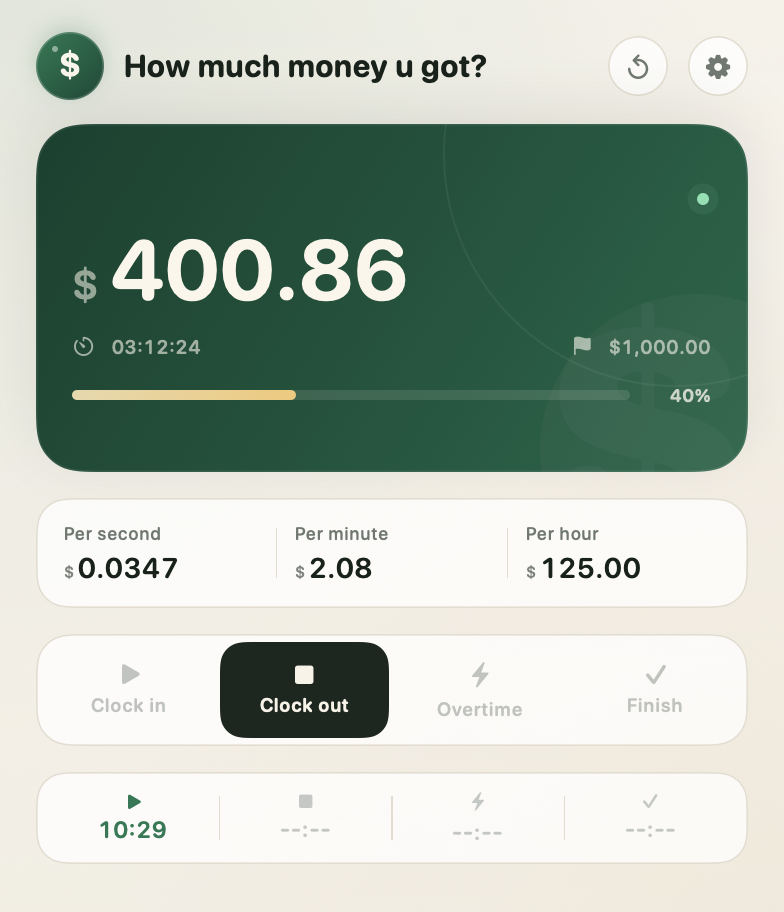
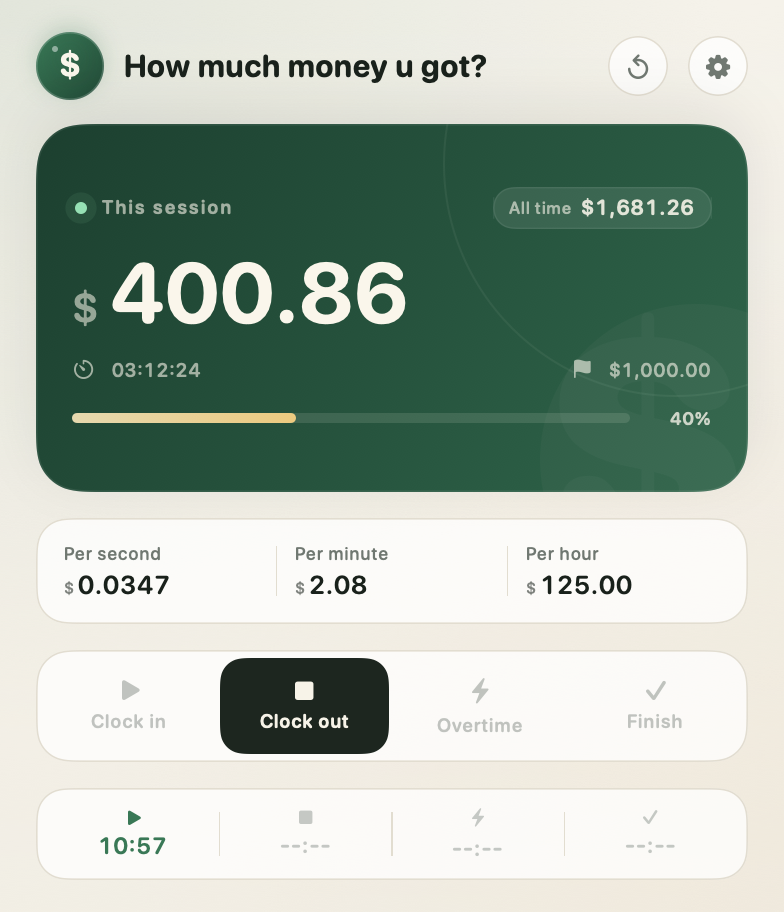
Preserve completed earnings in all-time total

diff --git a/Sources/HowMuchApp/DashboardView.swift b/Sources/HowMuchApp/DashboardView.swift
@@ -5,14 +5,7 @@ struct DashboardView: View {
     @EnvironmentObject private var model: AppModel
     let openSettings: () -> Void
 
-    @State private var pendingConfirmation: Confirmation?
-
-    private enum Confirmation: String, Identifiable {
-        case restart
-        case reset
-
-        var id: String { rawValue }
-    }
+    @State private var showResetAlert = false
 
     private var snapshot: EarningsSnapshot { model.snapshot }
 
@@ -31,27 +24,13 @@ struct DashboardView: View {
             Spacer(minLength: 0)
         }
         .padding(.bottom, 16)
-        .alert(item: $pendingConfirmation) { confirmation in
-            switch confirmation {
-            case .restart:
-                return Alert(
-                    title: Text(model.t(.restartConfirmTitle)),
-                    message: Text(model.t(.restartConfirmMessage, model.money(snapshot.total))),
-                    primaryButton: .destructive(Text(model.t(.restartAction))) {
-                        model.clockIn()
-                    },
-                    secondaryButton: .cancel(Text(model.t(.cancel)))
-                )
-            case .reset:
-                return Alert(
-                    title: Text(model.t(.resetConfirmTitle)),
-                    message: Text(model.t(.resetConfirmMessage, model.money(snapshot.total))),
-                    primaryButton: .destructive(Text(model.t(.reset))) {
-                        model.resetSession()
-                    },
-                    secondaryButton: .cancel(Text(model.t(.cancel)))
-                )
+        .alert(model.t(.resetConfirmTitle), isPresented: $showResetAlert) {
+            Button(model.t(.cancel), role: .cancel) {}
+            Button(model.t(.reset), role: .destructive) {
+                model.resetSession()
             }
+        } message: {
+            Text(model.t(.resetConfirmMessage, model.money(snapshot.total)))
         }
     }
 
@@ -74,7 +53,7 @@ struct DashboardView: View {
                 isEnabled: model.session.hasRecordedTime,
                 help: model.t(.resetThisSession)
             ) {
-                pendingConfirmation = .reset
+                showResetAlert = true
             }
 
             HeaderIconButton(
@@ -118,15 +97,45 @@ struct DashboardView: View {
                 .offset(x: 128, y: 64)
 
             VStack(alignment: .leading, spacing: 0) {
-                HStack {
-                    Spacer()
+                HStack(spacing: 6) {
                     StatusDot(
                         phase: snapshot.phase,
                         help: model.phaseTitle(snapshot.phase)
                     )
+
+                    Text(model.t(.sessionCurrentLabel))
+                        .font(.system(size: 9.5, weight: .semibold, design: .rounded))
+                        .tracking(0.6)
+                        .foregroundStyle(Palette.heroMuted)
+
+                    Spacer(minLength: 4)
+
+                    HStack(spacing: 4) {
+                        Text(model.t(.totalLabel))
+                            .font(.system(size: 8.5, weight: .medium, design: .rounded))
+                            .foregroundStyle(Palette.heroMuted)
+                        Text(model.money(model.totalEarned))
+                            .font(.system(size: 10.5, weight: .semibold, design: .rounded).monospacedDigit())
+                            .foregroundStyle(Palette.heroText.opacity(0.88))
+                            .lineLimit(1)
+                            .minimumScaleFactor(0.72)
+                    }
+                    .padding(.horizontal, 8)
+                    .padding(.vertical, 4)
+                    .background(
+                        Capsule()
+                            .fill(Color.white.opacity(0.09))
+                            .overlay(
+                                Capsule()
+                                    .strokeBorder(Color.white.opacity(0.07), lineWidth: 0.7)
+                            )
+                    )
+                    .accessibilityElement(children: .ignore)
+                    .accessibilityLabel(
+                        "\(model.t(.totalLabel)) \(model.money(model.totalEarned))"
+                    )
                 }
-                .frame(height: 9)
-                .padding(.bottom, 5)
+                .padding(.bottom, 6)
 
                 HStack(alignment: .firstTextBaseline, spacing: 5) {
                     Text(model.currency.symbol)
@@ -183,7 +192,7 @@ struct DashboardView: View {
             }
             .padding(18)
         }
-        .frame(height: 174)
+        .frame(height: 184)
         .clipShape(RoundedRectangle(cornerRadius: 23, style: .continuous))
         .overlay(
             RoundedRectangle(cornerRadius: 23, style: .continuous)
@@ -256,11 +265,7 @@ struct DashboardView: View {
                 style: .green,
                 isEnabled: model.canClockIn
             ) {
-                if model.clockInStartsNewSession && snapshot.total > 0.001 {
-                    pendingConfirmation = .restart
-                } else {
-                    model.clockIn()
-                }
+                model.clockIn()
             }
 
             ActionTile(

diff --git a/Sources/HowMuchApp/Localization.swift b/Sources/HowMuchApp/Localization.swift
@@ -13,6 +13,8 @@ enum LKey: Hashable {
 
     // Dashboard
     case earnedThisSession
+    case sessionCurrentLabel
+    case totalLabel
     case dailyTarget
     case perSecond
     case perMinute
@@ -35,9 +37,6 @@ enum LKey: Hashable {
     case phaseTitleOvertime
     case phaseTitleFinished
     case resetThisSession
-    case restartConfirmTitle
-    case restartConfirmMessage
-    case restartAction
     case resetConfirmTitle
     case resetConfirmMessage
 
@@ -98,6 +97,8 @@ enum L10n {
         .currency: "货币单位",
 
         .earnedThisSession: "本次已赚",
+        .sessionCurrentLabel: "本次",
+        .totalLabel: "总计",
         .dailyTarget: "日薪目标",
         .perSecond: "每秒",
         .perMinute: "每分",
@@ -120,11 +121,8 @@ enum L10n {
         .phaseTitleOvertime: "加班计薪中",
         .phaseTitleFinished: "本次已完成",
         .resetThisSession: "重置本次",
-        .restartConfirmTitle: "开始新的一次计薪？",
-        .restartConfirmMessage: "本次已累计 %@，重新打卡会将这笔记录清零。",
-        .restartAction: "重新开始",
         .resetConfirmTitle: "重置本次计薪？",
-        .resetConfirmMessage: "当前累计的 %@ 将清零，且无法恢复。",
+        .resetConfirmMessage: "本次的 %@ 将清零，历史总计会保留。",
 
         .settingsTitle: "设置",
         .monthlySalary: "普通月薪",
@@ -165,6 +163,8 @@ enum L10n {
         .currency: "Currency",
 
         .earnedThisSession: "Earned this session",
+        .sessionCurrentLabel: "This session",
+        .totalLabel: "All time",
         .dailyTarget: "Daily target",
         .perSecond: "Per second",
         .perMinute: "Per minute",
@@ -187,11 +187,8 @@ enum L10n {
         .phaseTitleOvertime: "Earning overtime pay",
         .phaseTitleFinished: "Session finished",
         .resetThisSession: "Reset session",
-        .restartConfirmTitle: "Start a new session?",
-        .restartConfirmMessage: "This session has earned %@. Clocking in again will clear this record.",
-        .restartAction: "Start over",
         .resetConfirmTitle: "Reset this session?",
-        .resetConfirmMessage: "The current total of %@ will be cleared and cannot be restored.",
+        .resetConfirmMessage: "This session's %@ will be cleared. Your all-time total is kept.",
 
         .settingsTitle: "Settings",
         .monthlySalary: "Monthly salary",

diff --git a/Sources/HowMuchApp/AppModel.swift b/Sources/HowMuchApp/AppModel.swift
@@ -9,6 +9,7 @@ final class AppModel: ObservableObject {
         static let session = "jinzhang.workSession.v1"
         static let language = "jinzhang.language.v1"
         static let currency = "jinzhang.currency.v1"
+        static let ledger = "jinzhang.earningsLedger.v1"
         static let hasLaunched = "jinzhang.hasLaunched.v1"
     }
 
@@ -40,6 +41,13 @@ final class AppModel: ObservableObject {
         }
     }
 
+    @Published var ledger: EarningsLedger {
+        didSet {
+            guard !isHydrating else { return }
+            persist(ledger, key: StorageKey.ledger)
+        }
+    }
+
     @Published private(set) var now: Date
 
     private let defaults: UserDefaults
@@ -66,11 +74,14 @@ final class AppModel: ObservableObject {
             .string(forKey: StorageKey.currency)
             .flatMap(CurrencyUnit.init(rawValue:))
             ?? .cny
+        let initialLedger: EarningsLedger =
+            Self.load(EarningsLedger.self, key: StorageKey.ledger, from: defaults) ?? .empty
 
         self.settings = initialSettings
         self.session = initialSession
         self.language = initialLanguage
         self.currency = initialCurrency
+        self.ledger = initialLedger
         self.now = Date()
         self.isHydrating = false
 
@@ -87,6 +98,10 @@ final class AppModel: ObservableObject {
         EarningsCalculator.snapshot(settings: settings, session: session, at: now)
     }
 
+    var totalEarned: Double {
+        ledger.total(current: snapshot.total)
+    }
+
     var canClockIn: Bool {
         session.phase == .idle || session.phase == .clockedOut || session.phase == .finished
     }
@@ -101,10 +116,6 @@ final class AppModel: ObservableObject {
 
     var canEndOvertime: Bool {
         session.phase == .overtime
-    }
-
-    var clockInStartsNewSession: Bool {
-        session.phase != .idle
     }
 
     // MARK: - Localization & display
@@ -145,6 +156,10 @@ final class AppModel: ObservableObject {
     // MARK: - Actions
 
     func clockIn() {
+        now = Date()
+        if session.phase == .clockedOut || session.phase == .finished {
+            ledger.archive(snapshot.total)
+        }
         session = SessionEngine.apply(.clockIn, to: session, at: Date())
         now = Date()
     }

diff --git a/Tests/CoreChecks/main.swift b/Tests/CoreChecks/main.swift
@@ -249,6 +249,34 @@ do {
     expect(decoded == .sgd, "currency should survive Codable round trip")
 }
 
+
+section("persistent earnings ledger")
+do {
+    var ledger = EarningsLedger.empty
+    expectClose(ledger.total(current: 12.5), 12.5)
+    ledger.archive(100)
+    expectClose(ledger.completedEarnings, 100)
+    expect(ledger.completedSessions == 1)
+    expectClose(ledger.total(current: 12.5), 112.5)
+    ledger.archive(50.25)
+    expectClose(ledger.completedEarnings, 150.25)
+    expect(ledger.completedSessions == 2)
+    ledger.archive(-10)
+    ledger.archive(Double.infinity)
+    expectClose(ledger.completedEarnings, 150.25)
+    expect(ledger.completedSessions == 2)
+    expectClose(ledger.total(current: -5), 150.25)
+
+    let encoder = JSONEncoder()
+    let decoder = JSONDecoder()
+    if let data = try? encoder.encode(ledger),
+       let decoded = try? decoder.decode(EarningsLedger.self, from: data) {
+        expect(decoded == ledger, "ledger should survive Codable round trip")
+    } else {
+        expect(false, "ledger encoding round trip failed")
+    }
+}
+
 if failures == 0 {
     print("\n✓ All core checks passed")
     exit(0)

diff --git a/Sources/HowMuchCore/EarningsLedger.swift b/Sources/HowMuchCore/EarningsLedger.swift
@@ -1,0 +1,27 @@
+import Foundation
+
+/// Persistent all-time earnings accumulated from completed sessions.
+public struct EarningsLedger: Codable, Equatable, Sendable {
+    public private(set) var completedEarnings: Double
+    public private(set) var completedSessions: Int
+
+    public init(completedEarnings: Double = 0, completedSessions: Int = 0) {
+        self.completedEarnings = completedEarnings.isFinite ? max(0, completedEarnings) : 0
+        self.completedSessions = max(0, completedSessions)
+    }
+
+    public static let empty = EarningsLedger()
+
+    /// Adds a completed session to the ledger. Non-finite or negative values are ignored.
+    public mutating func archive(_ amount: Double) {
+        guard amount.isFinite, amount > 0 else { return }
+        completedEarnings += amount
+        completedSessions += 1
+    }
+
+    /// The all-time total, including the session that is currently on screen.
+    public func total(current: Double) -> Double {
+        let safeCurrent = current.isFinite ? max(0, current) : 0
+        return completedEarnings + safeCurrent
+    }
+}

diff --git a/Sources/HowMuchCore/AppMetadata.swift b/Sources/HowMuchCore/AppMetadata.swift
@@ -3,5 +3,5 @@ import Foundation
 /// Branding that must never be translated.
 public enum AppMetadata {
     public static let displayName = "How much money u got?"
-    public static let version = "1.2.0"
+    public static let version = "1.3.0"
 }

diff --git a/README.md b/README.md
@@ -10,6 +10,7 @@
 
 - **收入换算**：填写普通月薪、每月工作日、每日工时、加班时薪，自动换算成每秒 / 每分钟 / 每小时收入。
 - **实时累计**：正常上班与加班分别累计，金额精确到分，费率随当前处于正常或加班状态自动切换。
+- **记录不丢失**：下班或收工后再次上班，上一次收入会自动归入“总计”，本次从零重新累计；总计持久化保存。
 - **完整打卡流程**：紧凑操作条中的上班、下班、加班、收工四个动作，覆盖一天的工作节奏。
 - **日薪目标进度**：用月薪 ÷ 每月工作日作为目标，实时显示今天完成了多少。
 - **菜单栏小组件**：右上角常驻显示实时金额，图标与符号会跟随货币切换；左键打开面板，右键可快速重置或退出。
@@ -55,7 +56,7 @@ swift run HowMuch
 2. 点击操作条中的 **上班**，金额开始实时累计。
 3. 下班时点击 **下班**；如果需要加班，再点击 **加班**，加班时薪会立即生效。
 4. 加班结束点击 **收工**，本次计薪完成并保留结果。
-5. 点击右上角的重置图标可清空记录；下一次 **上班** 会开启新的一次计薪。
+5. 再次点击 **上班** 会保留上一次收入并开启新的“本次”；右上角重置图标只清空本次，历史总计不受影响。
 
 切换货币只会更新金额前的符号（例如 `¥` → `$`），不会自动换算数字。右击菜单栏图标可以直接打开面板、重置本次计薪或退出应用。
 
@@ -104,9 +105,9 @@ python3 Scripts/make_icon.py   # 需要 Pillow
 
 ## 数据
 
-- 设置项、语言、货币单位与当前计时状态保存在本机 `UserDefaults`。
+- 设置项、语言、货币单位、本次计时状态与历史总计保存在本机 `UserDefaults`。
 - 应用没有网络权限，也没有任何统计或上报代码。
-- 重置本次计薪会永久清除当前累计金额。
+- 重置本次计薪只清除当前“本次”金额，历史总计保留。
 
 ## License
 
